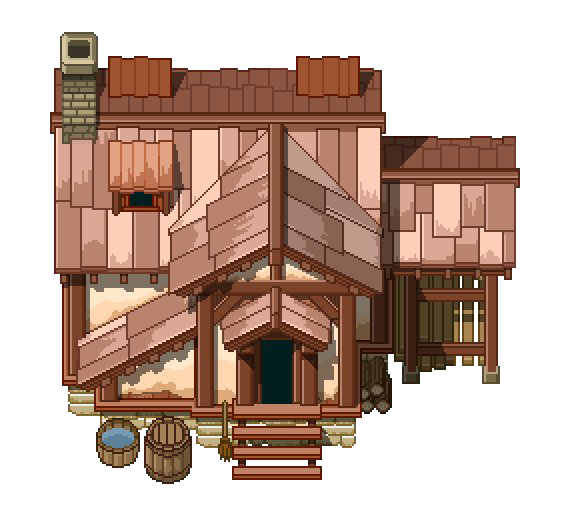
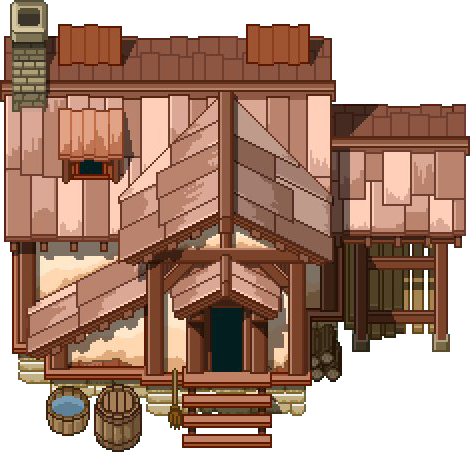
Ajoue de la maison, pas de collision actuellement (attente de la partie de Manon)

diff --git a/Sfml/Game.cpp b/Sfml/Game.cpp
@@ -80,11 +80,15 @@ Game::Game(sf::RenderWindow *_window, std::map<std::string, sf::Keyboard::Key> *
 	this->playerSprite.setTextureRect(this->playerPositionTextureIdle[0]);
 	this->playerDirection = 0;
 	this->playerIsWalking = false;
+	//house
+	this->houseTexture.loadFromFile("ress\\house.png");
+	this->house.setTexture(this->houseTexture);
 	//Ratio Calcul
 	this->ratioX = this->window->getSize().x / 1920.0;
 	this->ratioY = this->window->getSize().y / 1080.0;
 	this->tile.setScale(ratioX * 2, ratioY * 2);
 	this->playerSprite.setScale(ratioX * 2, ratioY * 2);
+	this->house.setScale(ratioX, ratioY);
 	//creation du tabeau de pixel
 	this->mapTexture.create(this->player.getMapCreator().getSizeX() * 64, this->player.getMapCreator().getSizeY() * 64);
 }
@@ -102,6 +106,7 @@ void	Game::handleEvent(sf::Event &event)
 		this->ratioY = this->window->getSize().y / 1080.0;
 		this->tile.setScale(ratioX * 2, ratioY * 2);
 		this->playerSprite.setScale(ratioX * 2, ratioY * 2);
+		this->house.setScale(ratioX, ratioY);
 		window->setView(sf::View(sf::FloatRect(0, 0, event.size.width, event.size.height)));
 		this->mapTexture.clear();
 		this->refreshMap();
@@ -116,6 +121,7 @@ void	Game::run(t_menu &stateGame)
 {
 	handleKeyboard();
 	displayMap();
+	displayHouse();
 	displayPlayer();
 }
 
@@ -321,4 +327,10 @@ void	Game::displayPlayer()
 		this->playerSprite.setTextureRect(this->playerPositionTextureIdle[this->playerDirection]);
 	this->playerSprite.setPosition(this->window->getSize().x / 2 - (this->playerPositionTextureIdle[0].width / 2) * ratioX, this->window->getSize().y / 2 - (this->playerPositionTextureIdle[0].height / 2) * ratioY);
 	this->window->draw(this->playerSprite);
+}
+
+void	Game::displayHouse()
+{
+	this->house.setPosition(this->player.getMapCreator().getSizeX() / 2 * 64.0 * ratioX - (this->player.getPosX() / 100.0 * 64.0 * ratioX) + this->window->getSize().x / 2 - this->houseTexture.getSize().x * ratioX / 2, 64.0 * ratioY - (this->player.getPosY() / 100.0 * 64.0 * ratioY) + this->window->getSize().y / 2);
+	this->window->draw(this->house);
 }
